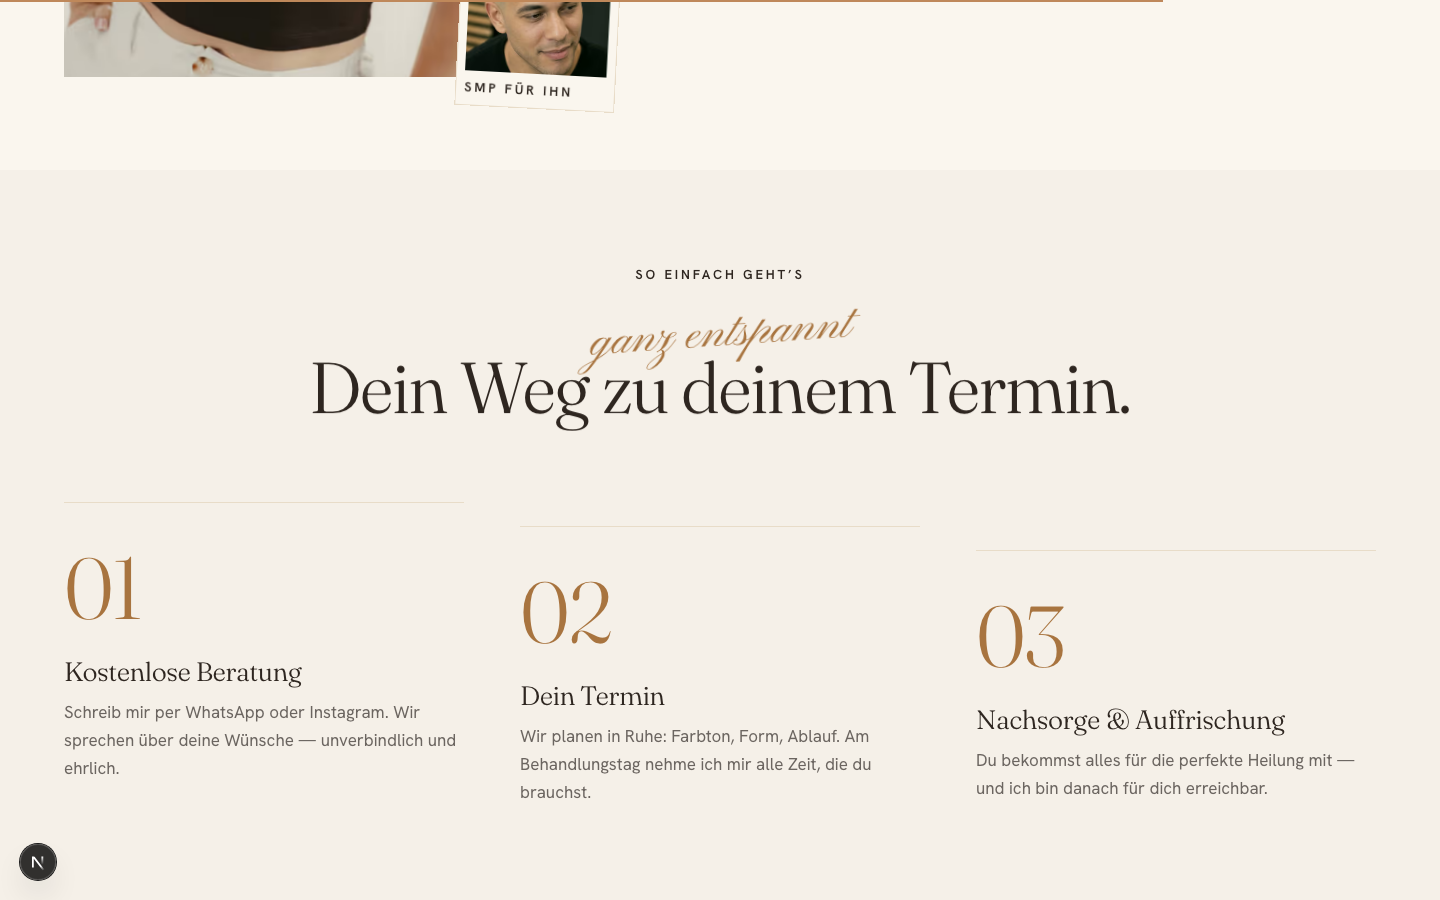
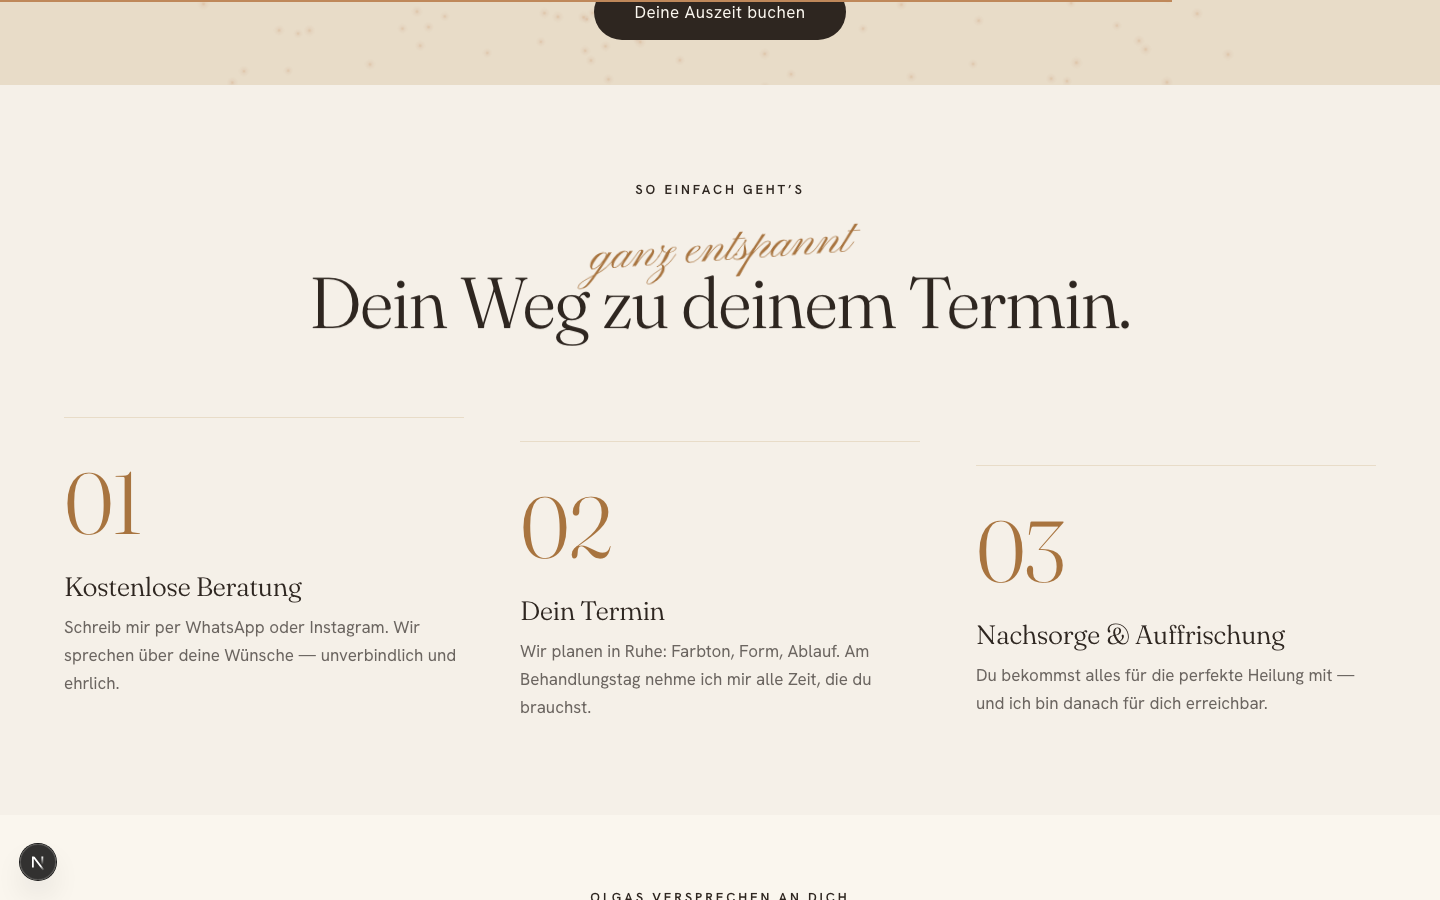
Olga direkt unter den Hero — Gesicht vor Angebot
Olgas Wunsch aus dem Screenshot: „Könnte man diesen Teil weiter oben rein
machen?" Der Block „Hallo, ich bin Olga" stand auf Position 8 von 11, hinter
der Wellness-Pin-Story — praktisch am Seitenende. Jetzt steht er direkt unter
dem Hero, vor den drei Reichen.

Der Absatz dort nennt ohnehin alle drei Leistungen („Ob Permanent Make-up,
Kopfhautpigmentierung oder einfach eine Auszeit im Massagesessel"), führt also
sauber in das Angebots-Grid darunter über.

Die Kopfnavigation folgt der neuen Reihenfolge: „Über Olga" wandert vom
letzten auf den ersten Platz. Ebenso die Anker-Liste in scripts/screenshot.mjs,
damit die QA-Serie die Seite in ihrer echten Abfolge abbildet.

Hintergrund-Rhythmus bleibt intakt (Hero → light → ivory → light …), der
Parallax am Portrait läuft an der neuen Position unverändert.

diff --git a/content/copy.de.ts b/content/copy.de.ts
@@ -233,12 +233,12 @@ export const footer = {
 
 export const nav = {
   items: [
+    { label: 'Über Olga', href: '#olga' },
     { label: 'Leistungen', href: '#leistungen' },
     { label: 'Permanent Make-up', href: '#pmu' },
     { label: 'Kopfhaut', href: '#smp' },
     { label: 'Ergebnisse', href: '#ergebnisse' },
     { label: 'Wellness', href: '#wellness' },
-    { label: 'Über Olga', href: '#olga' },
   ],
   cta: 'Termin',
 } as const;

diff --git a/app/page.tsx b/app/page.tsx
@@ -20,13 +20,13 @@ export default function Home() {
       <Header />
       <main>
         <Hero />
+        <AboutOlga />
         <ServicesGrid />
         <HookStatement />
         <Pmu />
         <Smp />
         <Ergebnisse />
         <WellnessPin />
-        <AboutOlga />
         <ProcessSteps />
         <VoicesMarquee />
         <BookingCta />

diff --git a/content/brief.md b/content/brief.md
@@ -21,7 +21,7 @@ Primär: Gold `#bf885a` (exakt aus Logo, max. 10 % Fläche) · Neutral-Palette: 
 3. 14islands.com — helle, weiche Shader-Welt (Beweis: WebGL geht auch hell)
 
 **7. Inhalts-Inventar (One-Pager, nicht mehr, nicht weniger)**
-Preloader → Hero (Video) → Hook-Statement → Leistungen (3er-Grid) → PMU (mit Vorher/Nachher) → SMP Sie & Ihn (mit Vorher/Nachher) → Wellness (Pin-Story Sessel) → Über Olga → Ablauf/Beratung (3 Schritte) → Stimmen-Marquee → Termin-CTA (WhatsApp/Instagram/Tel) → Footer. Unterseiten: /impressum, /datenschutz.
+Preloader → Hero (Video) → Über Olga → Leistungen (3er-Grid) → Hook-Statement → PMU (mit Vorher/Nachher) → SMP Sie & Ihn (mit Vorher/Nachher) → Echte Ergebnisse (Beweis-Galerie) → Wellness (Pin-Story Sessel) → Ablauf/Beratung (3 Schritte) → Stimmen-Marquee → Termin-CTA (WhatsApp/Instagram/Tel) → Footer. *(Reihenfolge zuletzt 2026-08-20 auf Kundenwunsch: Angebot direkt unter den Hero, Olga davor als Gesicht.)* Unterseiten: /impressum, /datenschutz.
 
 **8. Technik-Rahmen**
 Next.js 14+ App Router (TypeScript, Tailwind), Lenis + GSAP + ScrollTrigger, Three.js/R3F (Silk-Shader + Gold-Partikel), Video-Hero via z-image-turbo→seedance (Higgsfield als Zweitquelle), Fonts self-hosted (DSGVO), statische Karte statt Google Maps. Performance-Budget: Lighthouse Mobile > 80, LCP < 2.5 s, CLS < 0.1, Hero-Video < 3 MB. Hosting-Ziel: Hetzner (lt. Skill), Domain permanentreich.info. Tonalität: durchgängig Du.
